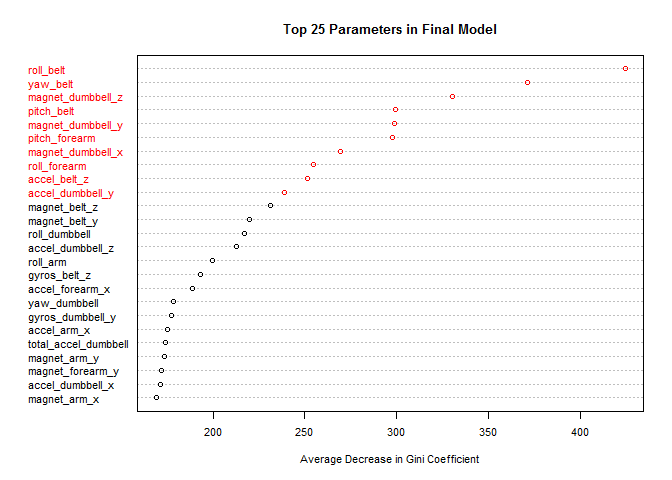
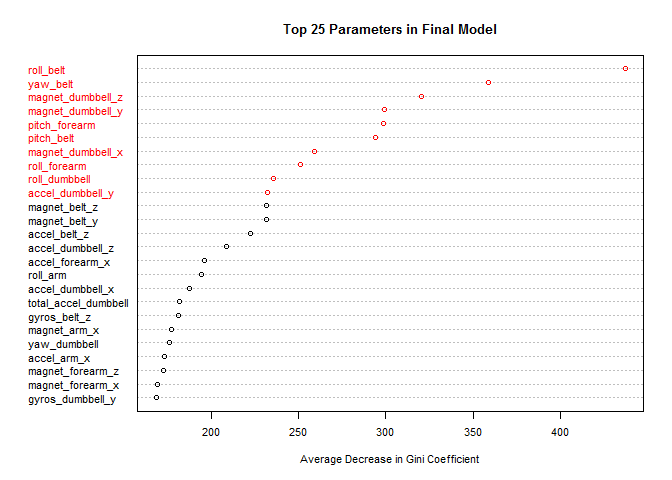
updated

diff --git a/pml_assignment.html b/pml_assignment.html
@@ -62,7 +62,7 @@ if (window.hljs && document.readyState && document.readyState === "complete") {
 <h1>Human Activity Recognition - Predicting The Quality of Execution</h1>
 <div id="synopsis" class="section level2">
 <h2>Synopsis</h2>
-<p>A Random Forest model was created to predict how well an individual executed (i.e., the quality of execution) a bicep curl using a dumbbell. The out-of- bag error was estimated to be 0.97% based on 10-fold cross-validation and the out-of-sample error rate for the validation data set was approximately 0.79%; these results suggested that the Random Forest model was very accurate. The Random Forest model was applied to the test data set and all twenty predictions generated by the model were correct (i.e., for the test data set, the model was 100% accurate).</p>
+<p>A Random Forest model was created to predict how well an individual executed (i.e., the quality of execution) a bicep curl using a dumbbell. The out-of-bag error was estimated to be 0.87% based on 10-fold cross-validation and the out-of-sample error rate for the validation data set was approximately 0.8%; these results suggested that the Random Forest model was very accurate. The Random Forest model was applied to the test data set and all twenty predictions generated by the model were correct (i.e., for the test data set, the model was 100% accurate).</p>
 </div>
 <div id="introduction" class="section level2">
 <h2>Introduction</h2>
@@ -140,15 +140,15 @@ train_fit$finalModel</code></pre>
 ##                      Number of trees: 500
 ## No. of variables tried at each split: 2
 ## 
-##         OOB estimate of  error rate: 0.89%
+##         OOB estimate of  error rate: 0.87%
 ## Confusion matrix:
-##      A    B    C    D    E class.error
-## A 3344    2    2    0    0 0.001194743
-## B   17 2254    8    0    0 0.010969724
-## C    0   21 2031    2    0 0.011197663
-## D    0    0   40 1888    2 0.021761658
-## E    0    0    4    7 2154 0.005080831</code></pre>
-<p>The final Random Forest model had an out-of-bag (“OOB”) error rate of approximately 0.89% and 2 predictors were selected at random for the splitting at each node.</p>
+##      A    B    C    D    E  class.error
+## A 3345    1    2    0    0 0.0008960573
+## B   19 2250   10    0    0 0.0127248793
+## C    0   20 2031    3    0 0.0111976631
+## D    1    0   37 1890    2 0.0207253886
+## E    0    0    2    5 2158 0.0032332564</code></pre>
+<p>The final Random Forest model had an out-of-bag (“OOB”) error rate of approximately 0.87% and 2 predictors were selected at random for the splitting at each node.</p>
 <pre class="r"><code>imp_params &lt;- data.frame(&quot;parameter&quot; = rownames(train_fit$finalModel$importance), &quot;MeanDecreaseGini&quot; = train_fit$finalModel$importance)
 rownames(imp_params) &lt;- NULL
 imp_params &lt;- imp_params[order(-imp_params$MeanDecreaseGini), ]
@@ -158,8 +158,8 @@ dotchart(rev(imp_params$MeanDecreaseGini[1:25]),
          col = c(rep(&quot;black&quot;, 15), rep(&quot;red&quot;, 10)),
          xlab = &quot;Average Decrease in Gini Coefficient&quot;,
          main = &quot;Top 25 Parameters in Final Model&quot;)</code></pre>
[1 lines of base64/hex data omitted]
-<p>In the figure above, the ten most important parameters (as measured by the average decrease in the Gini coefficient) in the final Random Forest model are plotted in red. Of the ten most important parameters (i.e., data columns), three are located in the sensors located on the weightlifting belt, three in the sensors on the forearm, and four in the sensors on the dumbbell; of these sensors, the sensor located on the belt appears to have the most predictive value. Interestingly, the type of data with the most predictive value appear to be Euler angle data (i.e., five of ten parameters with the highest importance are Euler angle data).</p>
[1 lines of base64/hex data omitted]
+<p>In the figure above, the ten most important parameters (as measured by the average decrease in the Gini coefficient) in the final Random Forest model are plotted in red. Of the ten most important parameters (i.e., data columns), three are located in the sensors located on the weightlifting belt, two in the sensors on the forearm, and five in the sensors on the dumbbell; of these sensors, the sensors located on the belt and the dumbbell appears to have the most predictive value. Interestingly, the type of data with the most predictive value appear to be Euler angle data (i.e., six of ten parameters with the highest importance are Euler angle data).</p>
 </div>
 <div id="testing-the-random-forest-model-against-the-validation-data-set" class="section level2">
 <h2>Testing the Random Forest Model Against the Validation Data Set</h2>
@@ -172,34 +172,34 @@ valid_test</code></pre>
 ## 
 ##           Reference
 ## Prediction    A    B    C    D    E
-##          A 2229    7    0    0    0
-##          B    2 1498   10    0    0
-##          C    0   13 1354   30    0
-##          D    0    0    4 1256    0
-##          E    1    0    0    0 1442
+##          A 2230   15    0    3    0
+##          B    2 1497    5    0    0
+##          C    0    6 1359   20    6
+##          D    0    0    4 1263    2
+##          E    0    0    0    0 1434
 ## 
 ## Overall Statistics
 ##                                           
-##                Accuracy : 0.9915          
-##                  95% CI : (0.9892, 0.9934)
+##                Accuracy : 0.992           
+##                  95% CI : (0.9897, 0.9938)
 ##     No Information Rate : 0.2845          
 ##     P-Value [Acc &gt; NIR] : &lt; 2.2e-16       
 ##                                           
-##                   Kappa : 0.9892          
+##                   Kappa : 0.9898          
 ##  Mcnemar's Test P-Value : NA              
 ## 
 ## Statistics by Class:
 ## 
 ##                      Class: A Class: B Class: C Class: D Class: E
-## Sensitivity            0.9987   0.9868   0.9898   0.9767   1.0000
-## Specificity            0.9988   0.9981   0.9934   0.9994   0.9998
-## Pos Pred Value         0.9969   0.9921   0.9692   0.9968   0.9993
-## Neg Pred Value         0.9995   0.9968   0.9978   0.9954   1.0000
+## Sensitivity            0.9991   0.9862   0.9934   0.9821   0.9945
+## Specificity            0.9968   0.9989   0.9951   0.9991   1.0000
+## Pos Pred Value         0.9920   0.9953   0.9770   0.9953   1.0000
+## Neg Pred Value         0.9996   0.9967   0.9986   0.9965   0.9988
 ## Prevalence             0.2845   0.1935   0.1744   0.1639   0.1838
-## Detection Rate         0.2841   0.1909   0.1726   0.1601   0.1838
-## Detection Prevalence   0.2850   0.1925   0.1781   0.1606   0.1839
-## Balanced Accuracy      0.9987   0.9925   0.9916   0.9880   0.9999</code></pre>
-<p>As seen above, the validation data indicate that the out-of-sample error rate is approximately 0.85%. This result suggests that the OOB error rate is a good estimate of the out-of-sample error rate and that the Random Forest model is very accurate.</p>
+## Detection Rate         0.2842   0.1908   0.1732   0.1610   0.1828
+## Detection Prevalence   0.2865   0.1917   0.1773   0.1617   0.1828
+## Balanced Accuracy      0.9979   0.9925   0.9942   0.9906   0.9972</code></pre>
+<p>As seen above, the validation data indicate that the out-of-sample error rate is approximately 0.8%. This result suggests that the OOB error rate is a good estimate of the out-of-sample error rate and that the Random Forest model is very accurate.</p>
 </div>
 <div id="using-the-random-forest-model-to-predict-the-quality-of-execution-for-the-test-data-set" class="section level2">
 <h2>Using the Random Forest Model to Predict the Quality of Execution for the Test Data Set</h2>
@@ -225,7 +225,7 @@ pml_write_files(test_pred)</code></pre>
 </div>
 <div id="summary" class="section level2">
 <h2>Summary</h2>
-<p>In this analysis, I developed a Random Forest model that can be used to predict the quality of execution of a dumbbell curl. The training data set was divided into training and validation data sets and a Random Forest model was developed based on the training data set. Based on a 10-fold cross-validation of the training data set, the out-of-bag error was approximately 0.89%. To confirm whether the out-of-bag error estimate was a good approximation of the out-of-sample error rate, I used the Random Forest model to predict the quality of execution for the validation data set; for the validation data set predictions, the model had an out-of-sample error rate of approximately 0.85%. This result suggested that the model was very accurate and when the model was applied to the test data set, the resulting predictions were 100% accurate.</p>
+<p>In this analysis, I developed a Random Forest model that can be used to predict the quality of execution of a dumbbell curl. The training data set was divided into training and validation data sets and a Random Forest model was developed based on the training data set. Based on a 10-fold cross-validation of the training data set, the out-of-bag error was approximately 0.87%. To confirm whether the out-of-bag error estimate was a good approximation of the out-of-sample error rate, I used the Random Forest model to predict the quality of execution for the validation data set; for the validation data set predictions, the model had an out-of-sample error rate of approximately 0.8%. This result suggested that the model was very accurate and when the model was applied to the test data set, the resulting predictions were 100% accurate.</p>
 </div>
 <div id="reference" class="section level2">
 <h2>Reference</h2>

diff --git a/pml_assignment.md b/pml_assignment.md
@@ -8,8 +8,8 @@ Human Activity Recognition - Predicting The Quality of Execution
 ## Synopsis
 A Random Forest model was created to predict how well an individual executed 
 (i.e., the quality of execution) a bicep curl using a dumbbell. The out-of-
-bag error was estimated to be 0.97% based on 10-fold cross-validation and the 
-out-of-sample error rate for the validation data set was approximately 0.79%;
+bag error was estimated to be 0.89% based on 10-fold cross-validation and the 
+out-of-sample error rate for the validation data set was approximately 0.8%;
 these results suggested that the Random Forest model was very accurate. The 
 Random Forest model was applied to the test data set and all twenty predictions
 generated by the model were correct (i.e., for the test data set, the model was
@@ -142,18 +142,18 @@ train_fit$finalModel
 ##                      Number of trees: 500
 ## No. of variables tried at each split: 2
 ## 
-##         OOB estimate of  error rate: 0.89%
+##         OOB estimate of  error rate: 0.87%
 ## Confusion matrix:
-##      A    B    C    D    E class.error
-## A 3344    2    2    0    0 0.001194743
-## B   17 2254    8    0    0 0.010969724
-## C    0   21 2031    2    0 0.011197663
-## D    0    0   40 1888    2 0.021761658
-## E    0    0    4    7 2154 0.005080831
+##      A    B    C    D    E  class.error
+## A 3345    1    2    0    0 0.0008960573
+## B   19 2250   10    0    0 0.0127248793
+## C    0   20 2031    3    0 0.0111976631
+## D    1    0   37 1890    2 0.0207253886
+## E    0    0    2    5 2158 0.0032332564
 ```
 
 The final Random Forest model had an out-of-bag ("OOB") error rate of approximately 
-0.89% and 
+0.87% and 
 2 predictors were selected at random for the 
 splitting at each node. 
 
@@ -175,11 +175,11 @@ dotchart(rev(imp_params$MeanDecreaseGini[1:25]),
 In the figure above, the ten most important parameters (as measured by the 
 average decrease in the Gini coefficient) in the final Random Forest model are 
 plotted in red. Of the ten most important parameters (i.e., data columns), 
-three are located in the sensors located on the weightlifting belt, three in the
-sensors on the forearm, and four in the sensors on the dumbbell; of these sensors, 
-the sensor located on the belt appears to have the most predictive value. 
+three are located in the sensors located on the weightlifting belt, two in the
+sensors on the forearm, and five in the sensors on the dumbbell; of these sensors, 
+the sensors located on the belt and the dumbbell appears to have the most predictive value. 
 Interestingly, the type of data with the most predictive value appear to be Euler 
-angle data (i.e., five of ten parameters with the highest importance are Euler 
+angle data (i.e., six of ten parameters with the highest importance are Euler 
 angle data).
 
 ## Testing the Random Forest Model Against the Validation Data Set
@@ -202,37 +202,37 @@ valid_test
 ## 
 ##           Reference
 ## Prediction    A    B    C    D    E
-##          A 2229    7    0    0    0
-##          B    2 1498   10    0    0
-##          C    0   13 1354   30    0
-##          D    0    0    4 1256    0
-##          E    1    0    0    0 1442
+##          A 2230   15    0    3    0
+##          B    2 1497    5    0    0
+##          C    0    6 1359   20    6
+##          D    0    0    4 1263    2
+##          E    0    0    0    0 1434
 ## 
 ## Overall Statistics
 ##                                           
-##                Accuracy : 0.9915          
-##                  95% CI : (0.9892, 0.9934)
+##                Accuracy : 0.992           
+##                  95% CI : (0.9897, 0.9938)
 ##     No Information Rate : 0.2845          
 ##     P-Value [Acc > NIR] : < 2.2e-16       
 ##                                           
-##                   Kappa : 0.9892          
+##                   Kappa : 0.9898          
 ##  Mcnemar's Test P-Value : NA              
 ## 
 ## Statistics by Class:
 ## 
 ##                      Class: A Class: B Class: C Class: D Class: E
-## Sensitivity            0.9987   0.9868   0.9898   0.9767   1.0000
-## Specificity            0.9988   0.9981   0.9934   0.9994   0.9998
-## Pos Pred Value         0.9969   0.9921   0.9692   0.9968   0.9993
-## Neg Pred Value         0.9995   0.9968   0.9978   0.9954   1.0000
+## Sensitivity            0.9991   0.9862   0.9934   0.9821   0.9945
+## Specificity            0.9968   0.9989   0.9951   0.9991   1.0000
+## Pos Pred Value         0.9920   0.9953   0.9770   0.9953   1.0000
+## Neg Pred Value         0.9996   0.9967   0.9986   0.9965   0.9988
 ## Prevalence             0.2845   0.1935   0.1744   0.1639   0.1838
-## Detection Rate         0.2841   0.1909   0.1726   0.1601   0.1838
-## Detection Prevalence   0.2850   0.1925   0.1781   0.1606   0.1839
-## Balanced Accuracy      0.9987   0.9925   0.9916   0.9880   0.9999
+## Detection Rate         0.2842   0.1908   0.1732   0.1610   0.1828
+## Detection Prevalence   0.2865   0.1917   0.1773   0.1617   0.1828
+## Balanced Accuracy      0.9979   0.9925   0.9942   0.9906   0.9972
 ```
 
 As seen above, the validation data indicate that the out-of-sample error rate is 
-approximately 0.85%. This result suggests 
+approximately 0.8%. This result suggests 
 that the OOB error rate is a good estimate of the out-of-sample error rate and that
 the Random Forest model is very accurate. 
 
@@ -290,11 +290,11 @@ In this analysis, I developed a Random Forest model that can be used to predict
 the quality of execution of a dumbbell curl. The training data set was divided 
 into training and validation data sets and a Random Forest model was developed 
 based on the training data set. Based on a 10-fold cross-validation of the training
-data set, the out-of-bag error was approximately 0.89%. 
+data set, the out-of-bag error was approximately 0.87%. 
 To confirm whether the out-of-bag error estimate was a good approximation of the
 out-of-sample error rate, I used the Random Forest model to predict the quality 
 of execution for the validation data set; for the validation data set predictions, 
-the model had an out-of-sample error rate of approximately 0.85%.
+the model had an out-of-sample error rate of approximately 0.8%.
 This result suggested that the model was very accurate and when the model was 
 applied to the test data set, the resulting predictions were 100% accurate. 
 
